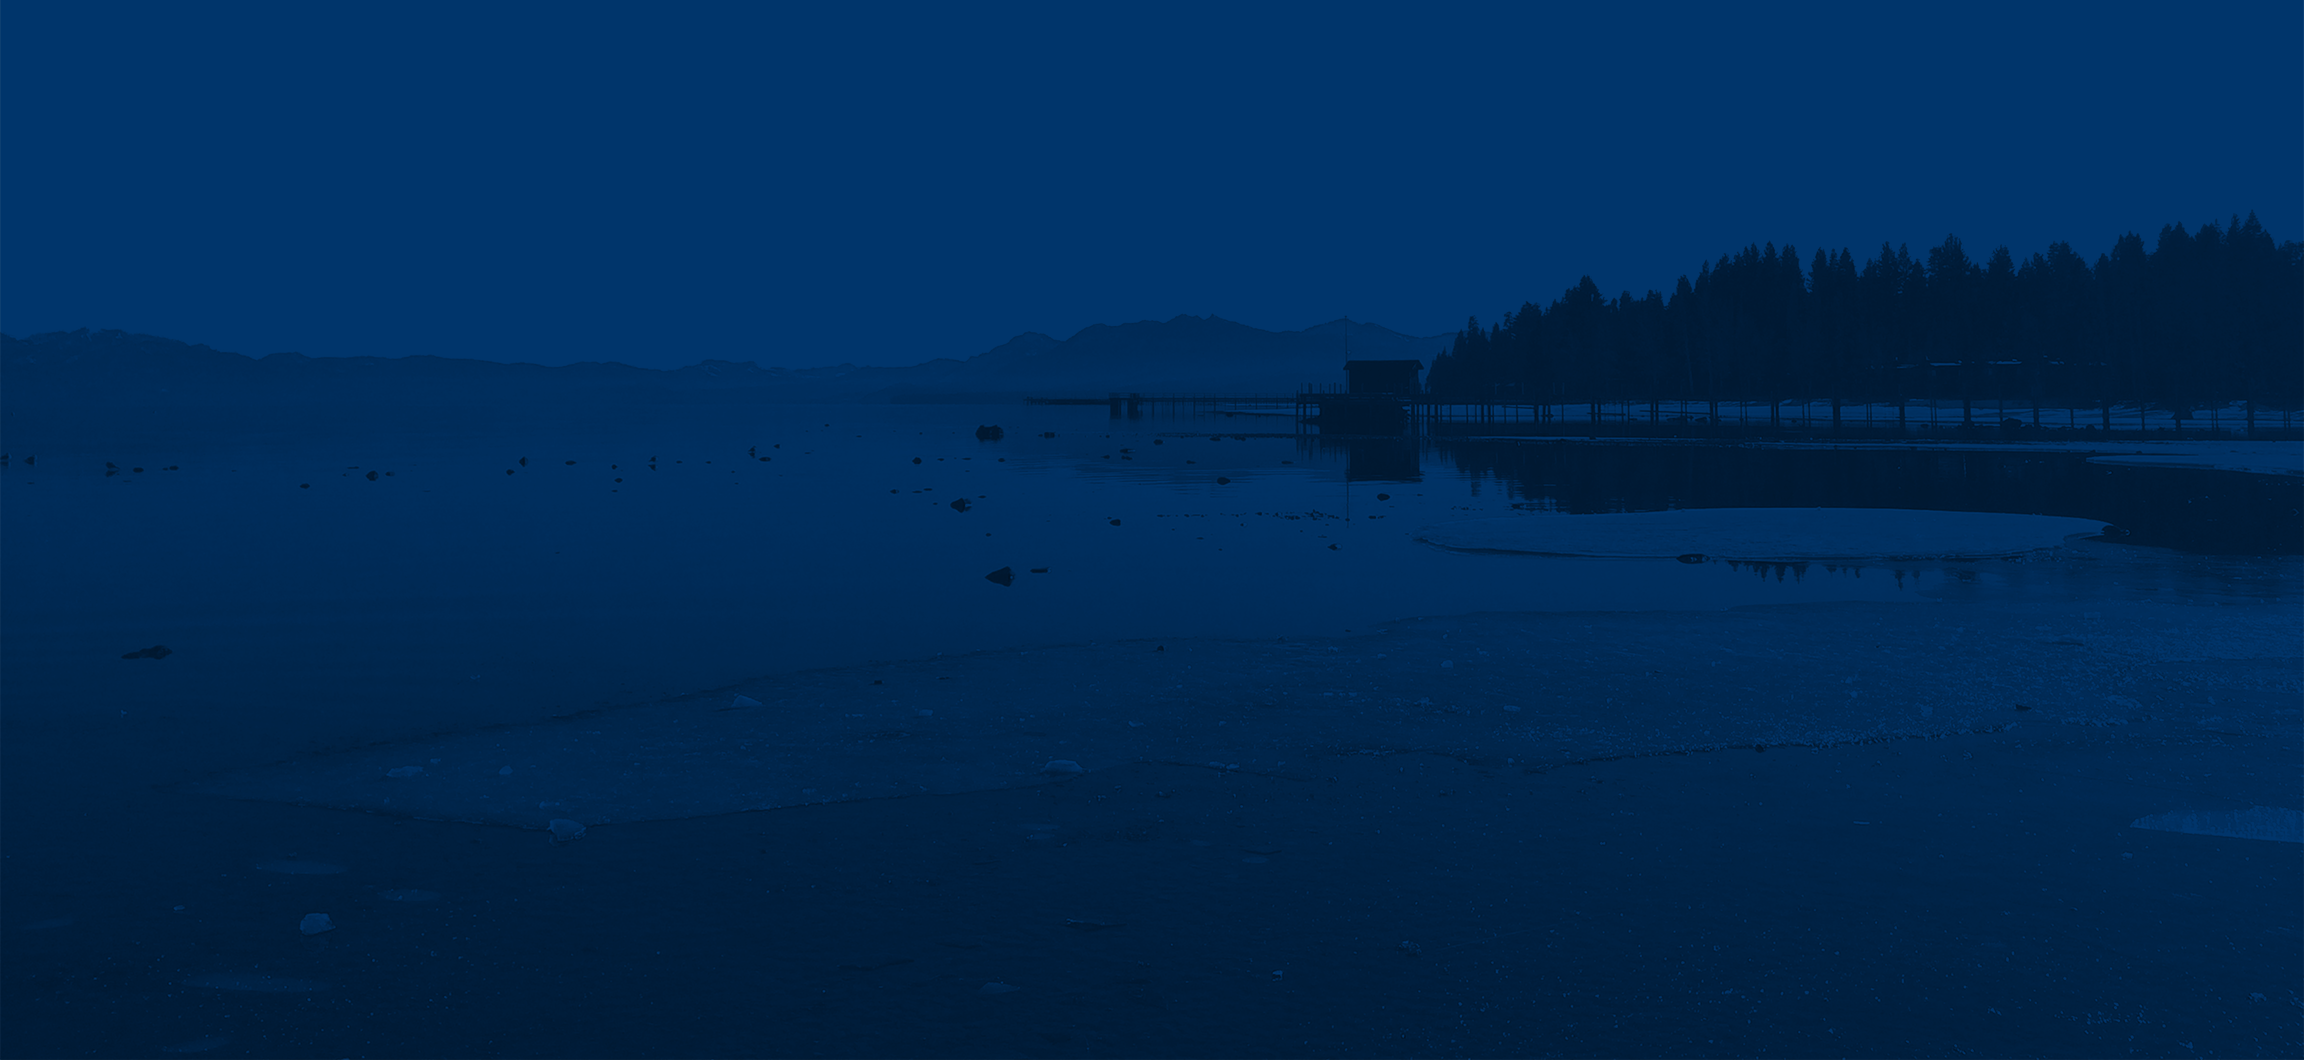
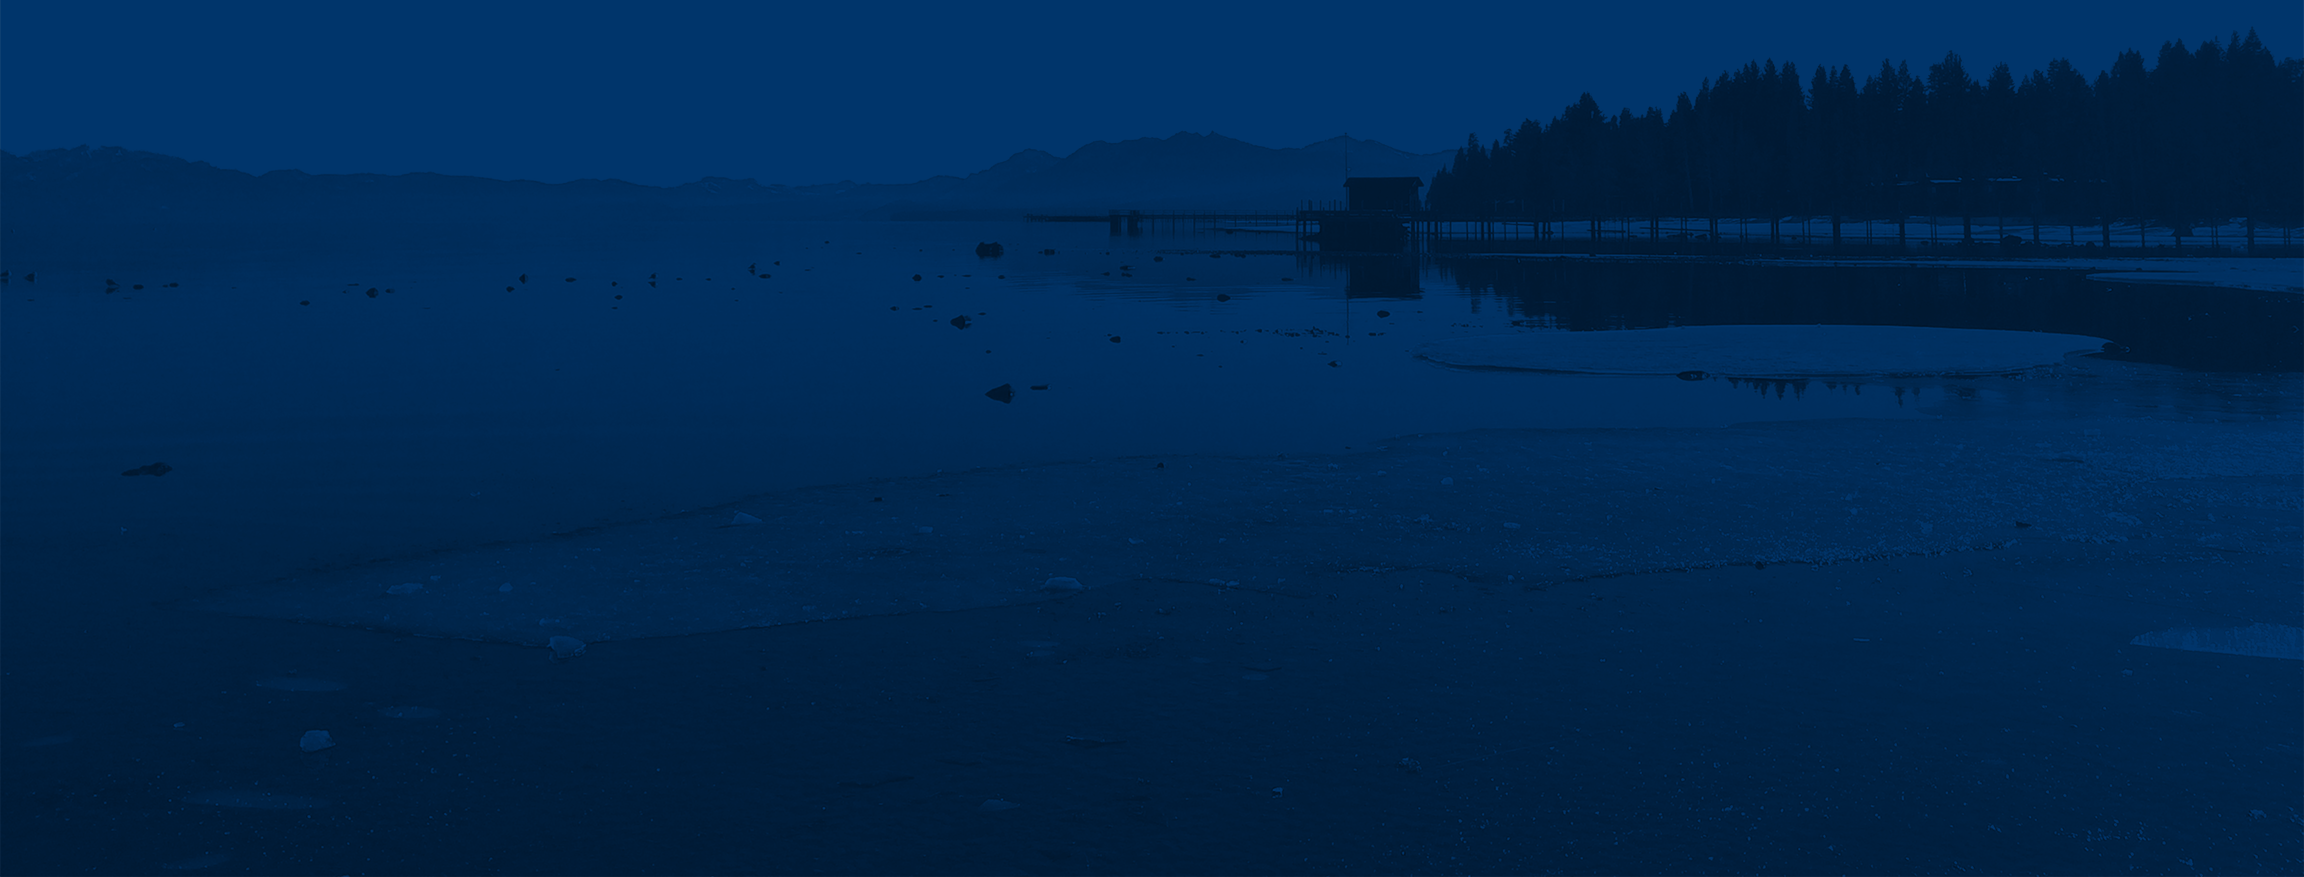
recropped header, aligned center top

diff --git a/_sass/bootstrap/_jumbotron.scss b/_sass/bootstrap/_jumbotron.scss
@@ -13,7 +13,7 @@
   background-repeat: no-repeat;
   background-size: cover;
   // background-attachment: fixed;
-  background-position: center;
+  background-position: center top;
 
   h1,
   .h1 {
